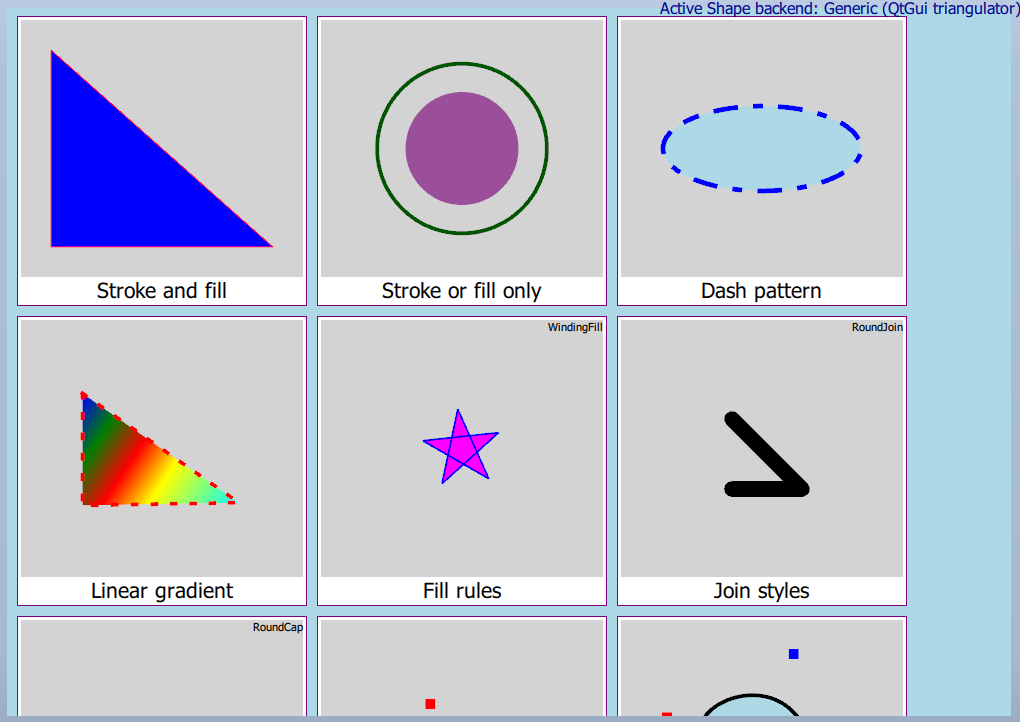
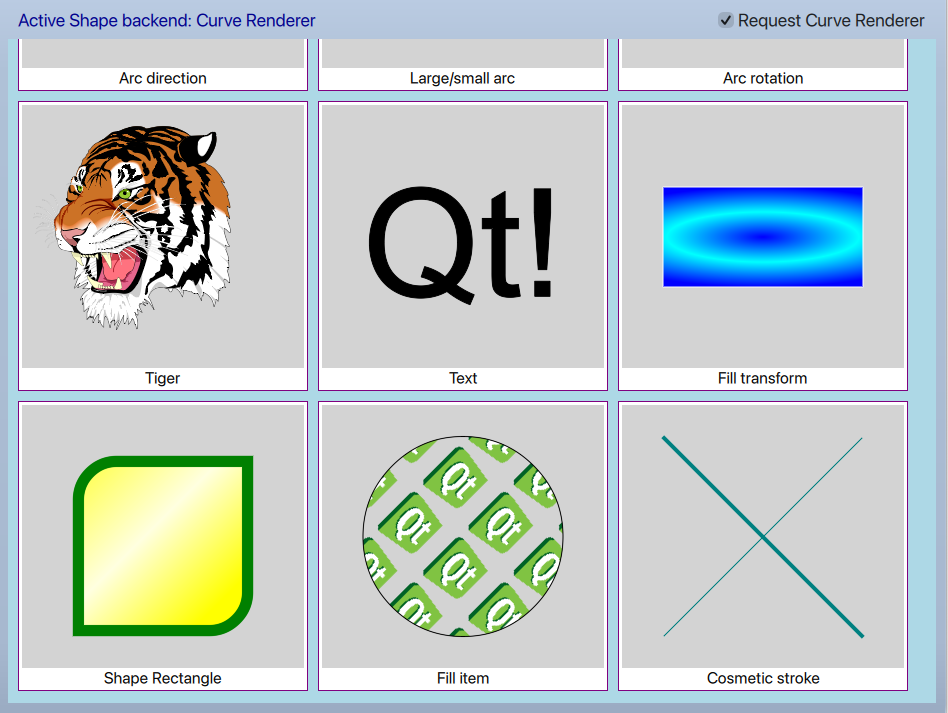
Improve shape gallery example
- Add gallery item for the new cosmetic stroke feature
- Improve fillItem demo: show tiled ("pixmap brush") fill
- Make the info display of the current backend permanent
- Add gui control to switch to curve renderer backend
- Update doc screenshot

(cherry picked from commit fe2286ffb27825d3ed74538ac6b0b6914dbced76)

diff --git a/examples/quick/quickshapes/shapes/shapegallery.qml b/examples/quick/quickshapes/shapes/shapegallery.qml
@@ -2,6 +2,7 @@
 // SPDX-License-Identifier: LicenseRef-Qt-Commercial OR BSD-3-Clause
 
 import QtQuick
+import QtQuick.Controls
 import QtQuick.Shapes
 
 pragma ComponentBehavior: Bound
@@ -10,6 +11,9 @@ Rectangle {
     id: root
     width: 1024
     height: 768
+
+    property int requestedBackend: curveCheck.checkState === Qt.Checked ? Shape.CurveRenderer
+                                                                        : Shape.UnknownRenderer
 
     readonly property color col: "lightsteelblue"
     gradient: Gradient {
@@ -37,6 +41,7 @@ Rectangle {
         anchors {
             fill: parent
             margins: 10
+            topMargin: 40
         }
         color: "lightBlue"
         clip: true
@@ -158,39 +163,45 @@ Rectangle {
                     name: qsTr("Fill item")
                     shapeUrl: "fillItem.qml"
                 }
+                ListElement {
+                    name: qsTr("Cosmetic stroke")
+                    shapeUrl: "cosmetic.qml"
+                }
             }
         }
     }
 
-    Text {
+    CheckBox {
+        id: curveCheck
         anchors.right: parent.right
+        anchors.rightMargin: backendText.anchors.leftMargin
+        anchors.top: parent.top
+        anchors.margins: 10
+        font.pointSize: 18
+        text: "Request Curve Renderer"
+    }
+
+    Text {
+        id: backendText
+        anchors.left: parent.left
+        anchors.leftMargin: 20
+        anchors.top: parent.top
+        anchors.margins: 10
         // used only to get the renderer type
         Shape {
             id: dummyShape
+            preferredRendererType: root.requestedBackend
             ShapePath { }
         }
         color: "darkBlue"
-        font.pointSize: 12
-        readonly property variant rendererStrings: [ qsTr("Unknown"), qsTr("Generic (QtGui triangulator)"), qsTr("GL_NV_path_rendering"), qsTr("Software (QPainter)"), qsTr("Curve Renderer") ]
+        font.pointSize: curveCheck.font.pointSize
+        readonly property variant rendererStrings: [
+            qsTr("Unknown"),
+            qsTr("Geometry Renderer (QtGui triangulator)"),
+            qsTr("GL_NV_path_rendering"),
+            qsTr("Software (QPainter)"),
+            qsTr("Curve Renderer")
+        ]
         text: "Active Shape backend: " + rendererStrings[dummyShape.rendererType]
-        SequentialAnimation on opacity {
-            NumberAnimation {
-                from: 1
-                to: 0
-                duration: 5000
-            }
-            PauseAnimation {
-                duration: 5000
-            }
-            NumberAnimation {
-                from: 0
-                to: 1
-                duration: 1000
-            }
-            PauseAnimation {
-                duration: 5000
-            }
-            loops: Animation.Infinite
-        }
     }
 }

diff --git a/examples/quick/quickshapes/shapes/cosmetic.qml b/examples/quick/quickshapes/shapes/cosmetic.qml
@@ -1,0 +1,67 @@
+// Copyright (C) 2026 The Qt Company Ltd.
+// SPDX-License-Identifier: LicenseRef-Qt-Commercial OR BSD-3-Clause
+
+import QtQuick
+import QtQuick.Shapes
+
+Rectangle {
+    color: "lightGray"
+    width: 256
+    height: 256
+
+    SequentialAnimation {
+        running: true
+        loops: Animation.Infinite
+
+        NumberAnimation {
+            id: anim
+            targets: [shape1, shape2]
+            property: "scale"
+            from: 0.4
+            to: 4
+            duration: 2000
+            easing.type: Easing.InOutQuad
+        }
+        NumberAnimation {
+            targets: [shape1, shape2]
+            property: anim.property
+            from: anim.to
+            to: anim.from
+            duration: anim.duration
+            easing.type: anim.easing.type
+        }
+    }
+
+    Shape {
+        id: shape1
+        preferredRendererType: root.requestedBackend
+        anchors.centerIn: parent
+        width: 50
+        height: 50
+
+        ShapePath {
+            fillColor: "transparent"
+            strokeColor: "teal"
+            cosmeticStroke: false
+
+            PathLine { relativeX: 50; relativeY: 50 }
+        }
+    }
+
+    Shape {
+        id: shape2
+        preferredRendererType: root.requestedBackend
+        anchors.centerIn: parent
+        width: 50
+        height: 50
+
+        ShapePath {
+            fillColor: "transparent"
+            strokeColor: "teal"
+            cosmeticStroke: true
+
+            startX: 50
+            PathLine { relativeX: -50; relativeY: 50 }
+        }
+    }
+}

diff --git a/examples/quick/quickshapes/shapes/tigerLoader.qml b/examples/quick/quickshapes/shapes/tigerLoader.qml
@@ -27,6 +27,13 @@ Rectangle {
             asynchronous: true
             visible: status == Loader.Ready
             scale: 0.4
+            Connections {
+                target: root
+                function onRequestedBackendChanged() {
+                    if (shapeLoader.status == Loader.Ready)
+                        shapeLoader.item.preferredRendererType = root.requestedBackend
+                }
+            }
         }
     }
 }

diff --git a/examples/quick/quickshapes/shapes/gradientSpreadModes.qml b/examples/quick/quickshapes/shapes/gradientSpreadModes.qml
@@ -15,6 +15,7 @@ Rectangle {
         border.color: "black"
 
         Shape {
+            preferredRendererType: root.requestedBackend
             anchors.fill: parent
 
             ShapePath {
@@ -58,6 +59,7 @@ Rectangle {
         }
 
         Shape {
+            preferredRendererType: root.requestedBackend
             anchors.fill: parent
             ShapePath {
                 strokeColor: "gray"

diff --git a/examples/quick/quickshapes/shapes/fillItem.qml b/examples/quick/quickshapes/shapes/fillItem.qml
@@ -14,10 +14,16 @@ Rectangle {
         id: image
         source: Images.qtLogo
         visible: false
+
+        layer.enabled: true
+        layer.textureSize: Qt.size(64, 64)
+        layer.smooth: true
+        layer.wrapMode: ShaderEffectSource.Repeat
     }
 
     Shape {
         id: shape
+        preferredRendererType: root.requestedBackend
         anchors.fill: parent
 
         ShapePath {

diff --git a/examples/quick/quickshapes/shapes/strokeOrFill.qml b/examples/quick/quickshapes/shapes/strokeOrFill.qml
@@ -11,6 +11,7 @@ Rectangle {
 
     Shape {
         id: circ1
+        preferredRendererType: root.requestedBackend
         anchors.fill: parent
 
         ShapePath {
@@ -50,6 +51,7 @@ Rectangle {
 
     Shape {
         id: circ2
+        preferredRendererType: root.requestedBackend
         anchors.fill: parent
 
         SequentialAnimation on opacity {

diff --git a/examples/quick/quickshapes/shapes/largeOrSmallArc.qml b/examples/quick/quickshapes/shapes/largeOrSmallArc.qml
@@ -13,6 +13,7 @@ Rectangle {
         model: 2
         delegate: Shape {
             id: delegate
+            preferredRendererType: root.requestedBackend
             required property int index
 
             anchors.centerIn: parent

diff --git a/examples/quick/quickshapes/shapes/arcDirection.qml b/examples/quick/quickshapes/shapes/arcDirection.qml
@@ -19,6 +19,7 @@ Rectangle {
             model: 2
             delegate: Shape {
                 id: delegate
+                preferredRendererType: root.requestedBackend
 
                 required property int index
 

diff --git a/examples/quick/quickshapes/shapes/ellipticalArcs.qml b/examples/quick/quickshapes/shapes/ellipticalArcs.qml
@@ -10,6 +10,7 @@ Rectangle {
     height: 256
     Shape {
         id: shape
+        preferredRendererType: root.requestedBackend
         width: 220
         height: 200
         anchors.centerIn: parent

diff --git a/examples/quick/quickshapes/shapes/arcRotation.qml b/examples/quick/quickshapes/shapes/arcRotation.qml
@@ -13,6 +13,7 @@ Rectangle {
         model: 2
         delegate: Shape {
             id: delegate1
+            preferredRendererType: root.requestedBackend
 
             required property int index
 

diff --git a/examples/quick/quickshapes/shapes/fillRules.qml b/examples/quick/quickshapes/shapes/fillRules.qml
@@ -9,6 +9,7 @@ Rectangle {
     width: 256
     height: 256
     Shape {
+        preferredRendererType: root.requestedBackend
         width: 100
         height: 100
         anchors.centerIn: parent

diff --git a/examples/quick/quickshapes/shapes/linearGradient.qml b/examples/quick/quickshapes/shapes/linearGradient.qml
@@ -9,6 +9,7 @@ Rectangle {
     width: 256
     height: 256
     Shape {
+        preferredRendererType: root.requestedBackend
         width: 200
         height: 150
         anchors.centerIn: parent
